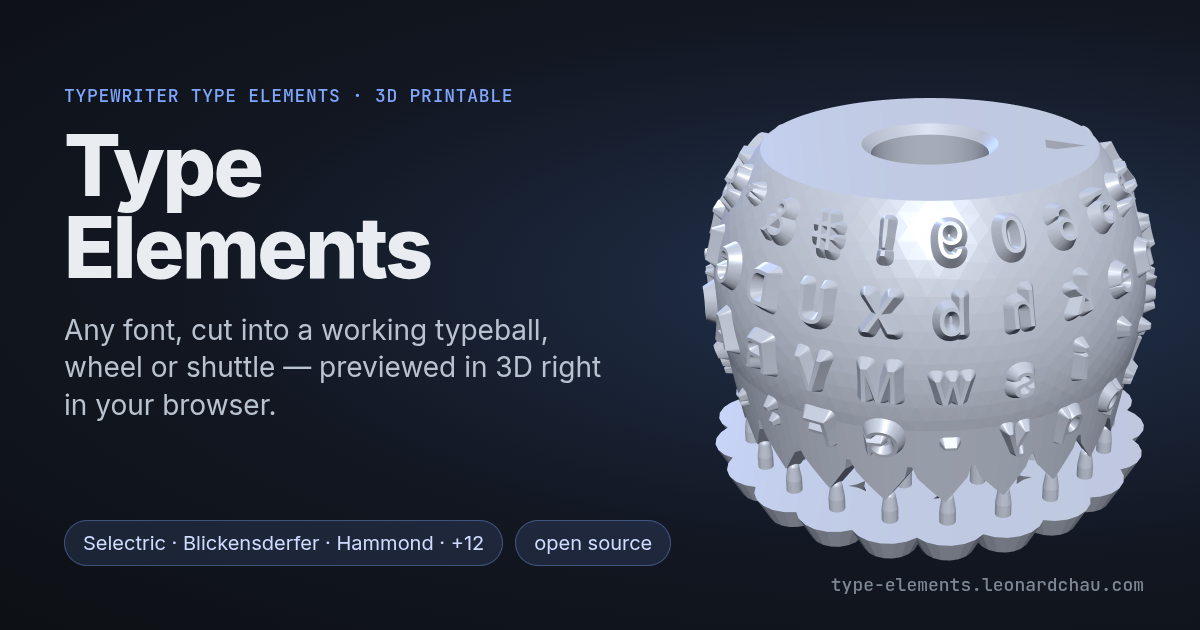
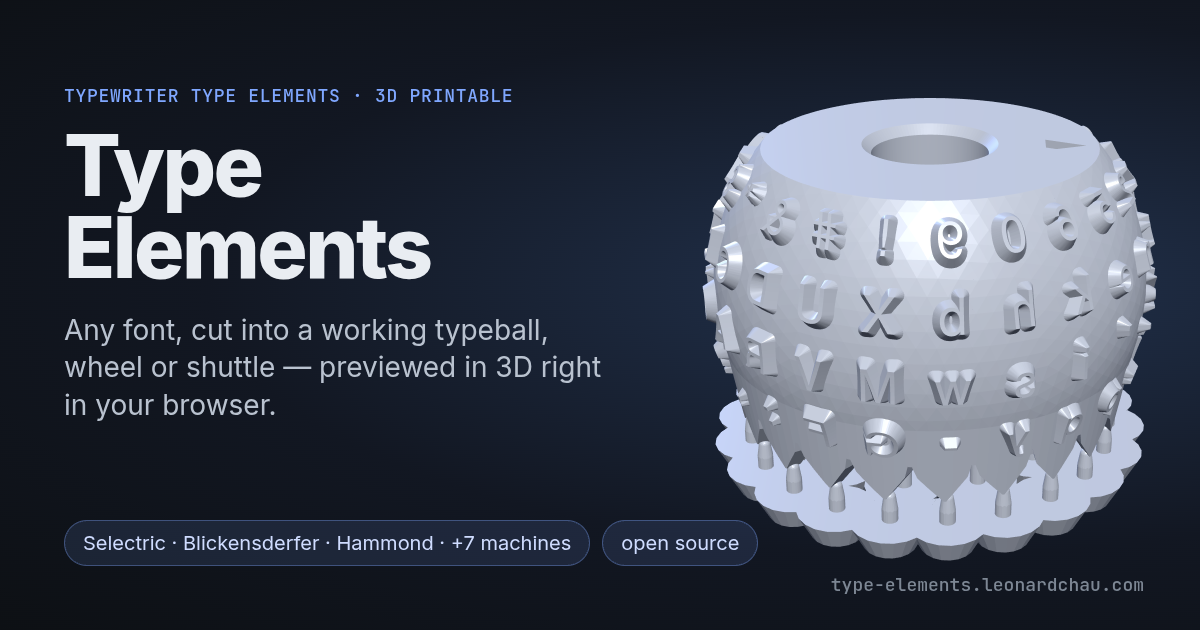
Count machines, not slugs: 10 machines (+5 standalone type slugs)
Home page tile, link-preview card and the README's config list.

Changed region(s): [[0.37, 0.8143, 0.6475, 0.9048]]

diff --git a/v4/README.md b/v4/README.md
@@ -128,10 +128,11 @@ generate_thumbnails.py      batch thumbnail renders
 config/
   <machine>.yaml             every real machine parameter + build/alignment settings, one per machine
   <machine>.running.yaml     gitignored scratch copy tune.py actually edits/saves (see above)
-                             15 machines: blickensderfer, postal, mignon, bennett, helios,
+                             10 machines: blickensderfer, postal, mignon, bennett, helios,
                              hammond, hammond_split, selectric12, selectric3,
-                             selectric_composer, type_slug, vogue_slug, gauge_slug,
-                             oliver_slug, lumi_slug
+                             selectric_composer
+                             + 5 type slugs (not machines): type_slug, vogue_slug,
+                             gauge_slug, oliver_slug, lumi_slug
 lib/
   glyph_poc.py               single-glyph mesh pipeline (the core technique)
   scad_primitives.py         revolve_polygon/extrude/transform helpers, generic (not machine-specific)

diff --git a/v4/site/index.md b/v4/site/index.md
@@ -36,7 +36,7 @@ description: >-
 </div>
 
 <div class="tiles">
-  <div class="tile"><b>15 machines</b><span>Selectric I/II, III and Composer, Blickensderfer, Postal, Mignon, Bennett, Helios Klimax, two Hammonds, five type slugs.</span></div>
+  <div class="tile"><b>10 machines</b><span>Selectric I/II, III and Composer, Blickensderfer, Postal, Mignon, Bennett, Helios Klimax and two Hammonds - plus five standalone type slugs.</span></div>
   <div class="tile"><b>Any font</b><span>Every character is cut from the real glyph outline, with a true draft taper and the platen's curvature.</span></div>
   <div class="tile"><b>Print-ready</b><span>Watertight solids with resin supports, plus an overhang check that flags islands before you slice.</span></div>
   <div class="tile"><b>Runs in the browser</b><span>The engine now runs in a browser tab - and renders faster than native Python. <a href="/v5-performance/">See the numbers</a>.</span></div>
